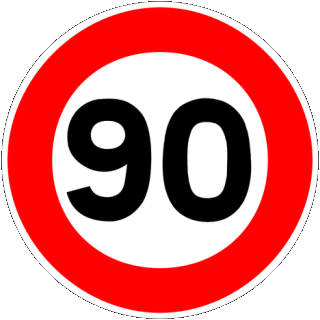
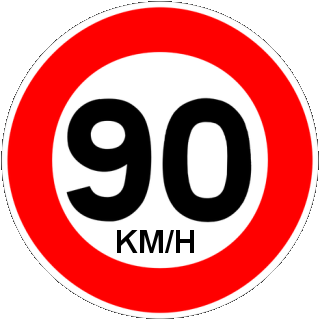
New speed sign according to language Force Home display at startup

Changed region(s): [[0.3438, 0.7188, 0.625, 0.8125]]

diff --git a/HomeScreen/qml/Home.qml b/HomeScreen/qml/Home.qml
@@ -119,8 +119,14 @@ Item {
         animation2.running = true;
     }
 
-    function showSign90(show) {
+    function showSign90(show, lang) {
         sign90.visible = show
+        if(show) {
+            if(lang === 'fr')
+                sign90.source = './images/B14-90.png'
+            else
+                sign90.source = './images/B14-60.png'
+        }
     }
 
     function showVisa(show, num) {

diff --git a/HomeScreen/qml/ShortcutArea.qml b/HomeScreen/qml/ShortcutArea.qml
@@ -115,9 +115,9 @@ Item {
         }
     }
     Component.onCompleted: {
-        root.currentIndex = 0
         appLauncherAreaLauncher.visible = true
         applicationArea.visible = false
         layoutHandler.hideAppLayer()
+        launcher.current = ''
     }
 }

diff --git a/HomeScreen/src2/usermanagement.cpp b/HomeScreen/src2/usermanagement.cpp
@@ -54,7 +54,7 @@ void UserManagement::setUser(const User &user)
     QMetaObject::invokeMethod(home, "languageChanged");
     QMetaObject::invokeMethod(shortcutArea, "languageChanged", Q_ARG(QVariant, user.graphPreferredLanguage));
     QMetaObject::invokeMethod(statusArea, "languageChanged", Q_ARG(QVariant, user.graphPreferredLanguage));
-    QMetaObject::invokeMethod(home, "showSign90", Q_ARG(QVariant, !user.graphActions.contains("Exceed 100 Kph")));
+    QMetaObject::invokeMethod(home, "showSign90", Q_ARG(QVariant, !user.graphActions.contains("Exceed 100 Kph")), Q_ARG(QVariant, user.graphPreferredLanguage));
     QStringList t;
     foreach(const QString &s, user.graphActions) {
         if(!s.contains("Exceed"))
@@ -258,7 +258,7 @@ void UserManagement::onServerNewConnection()
 }
 void UserManagement::processTextMessage(QString message)
 {
-    QString clientDetails_1 = "{\"postal_address\":\"201 Mission Street\",\"loc\":\"37.7914374,-122.3950694\",\"graphActions\":\"Install App,Update Software,Exceed 100 Kph,Open Trunk,View Online\""
+    QString clientDetails_1 = "{\"postal_address\":\"201 Mission Street\",\"loc\":\"37.7914374,-122.3950694\",\"graphActions\":\"Install App,Update Software,Open Trunk,View Online\""
                               ",\"country\":\"USA\",\"mail\":\"bjensen@example.com\",\"city\":\"San Francisco\",\"graphEmail\":"
                               "\"bjensen@example.com\",\"graphPreferredLanguage\":\"en\",\"ccNumberMasked\":\"-111\",\"ccExpYear\""
                               ":\"19\",\"ccExpMonth\":\"01\",\"description\":\"Original description\",\"groups\":[],\"last_name\":\""
